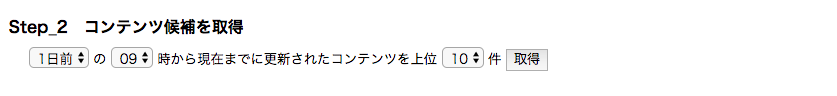
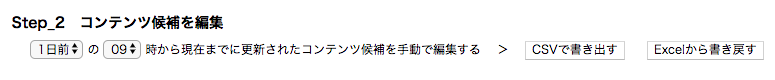
v0.9.9.5

diff --git a/js/main.js b/js/main.js
@@ -263,7 +263,7 @@ function read_data() {
 ***********************************************/
 function read_data_export() {
     //alert('read_data_export()');
-    $("#circle_icon_area").css("display","block");
+    $("#circle_icon_area_2").css("display","block");
 
     $.post(get_set_contents,
     {
@@ -278,9 +278,9 @@ function read_data_export() {
             /////////
             if(data.trim().length === 0) {
                 alert("指定した期間にはコンテンツがありません。");
-                $("#circle_icon_area").css("display","none");
+                $("#circle_icon_area_2").css("display","none");
             } else {
-                $("#circle_icon_area").css("display","none");
+                $("#circle_icon_area_2").css("display","none");
                 var filename = get_issue() + "_article_candidate.csv";
                 var bom = new Uint8Array([0xEF, 0xBB, 0xBF]);
                 var blob = new Blob([ bom, data.trim() ], { "type" : "text/csv" });
@@ -304,7 +304,7 @@ function read_data_export() {
  Excelで編集したコンテンツをサーバにアップロードして書き戻す
 ***********************************************/
 function read_data_import() {
-    $("#circle_icon_area").css("display","block");
+    $("#circle_icon_area_2").css("display","block");
     //$('#import_file').click();
     $('#import_file').change(function(evt) {
         var file = evt.target.files[0];
@@ -323,7 +323,7 @@ function read_data_import() {
                     if(status == 'success') {
                         //alert(data);
                         if (parseInt(data) > 0) {
-                            alert(data + " 行のコンテンツ候補を書き戻しました。いったんリロードします。");
+                            alert(data + " 行のコンテンツ候補を書き戻しました。リロードします");
                             location.reload();
                         } else {
                             alert("コンテンツ候補の書き戻しに失敗しました。リロードします。");
@@ -331,7 +331,7 @@ function read_data_import() {
                         }
                     } else {
                         alert("error.");
-                        $("#circle_icon_area").css("display","none");
+                        $("#circle_icon_area_2").css("display","none");
                     }
                 });
             });
@@ -347,7 +347,7 @@ function read_data_import() {
                     if(status == 'success') {
                         //alert(data);
                         if (parseInt(data) > 0) {
-                            alert(data + " 行のコンテンツ候補を書き戻しました。いったんリロードします。");
+                            alert(data + " 行のコンテンツ候補を書き戻しました。リロードします。");
                             location.reload();
                         } else {
                             alert("コンテンツ候補の書き戻しに失敗しました。リロードします。");
@@ -355,7 +355,7 @@ function read_data_import() {
                         }
                     } else {
                         alert("error.");
-                        $("#circle_icon_area").css("display","none");
+                        $("#circle_icon_area_2").css("display","none");
                     }
                 });
             }, false);

diff --git a/doc/makenews.php b/doc/makenews.php
@@ -39,7 +39,20 @@ if ($_SESSION['auth'] == true) {
 </p>
 <div class="capture_area"><img src="../images/doc/make/step_1.png" width="780px"></div>
 								</div>
-							<li class="docu_h1_nodeco">Step_2　コンテンツ候補を取得
+							<li class="docu_h1_nodeco">Step_2　コンテンツ候補を編集
+								<div>
+<p>
+	Watson NLCによる判定結果を確認し、必要ならば手動で変更するために、コンテンツ候補をダウンロードします。
+	「ニュース取得開始日」「ニュース取得開始時刻」を指定して「CSVで書き出す」ボタンを押すと、コンテンツ候補をCSV形式で保存できます。
+	これをExcelで開き、必要な修正（採用／非採用の書き換え、確信度の修正）を行ったら、<b>必ず「名前をつけて保存」→「Excelブック（*.xlsx）」</b>で
+	保存し、「Excelから書き戻す」ボタンを押してExcelファイルをアップロードしてください。なお、この操作はオプションです。
+</p>
+<p>
+	最後に「取得」ボタンをクリックすると「Step_3」のエリアにニュースが取り込まれます。
+</p>
+<div class="capture_area"><img src="../images/doc/make/step_2.png" width="780px"></div>
+								</div>
+							<li class="docu_h1_nodeco">Step_3　コンテンツ候補を取得
 								<div>
 <p>
 	あらかじめ登録しておいた「ニュース取得開始日」「ニュース取得開始時刻」
@@ -49,9 +62,9 @@ if ($_SESSION['auth'] == true) {
 <p>
 	最後に「取得」ボタンをクリックすると「Step_3」のエリアにニュースが取り込まれます。
 </p>
-<div class="capture_area"><img src="../images/doc/make/step_2.png" width="780px"></div>
+<div class="capture_area"><img src="../images/doc/make/step_3.png" width="780px"></div>
 								</div>
-							<li class="docu_h1_nodeco">Step_3　ニュース本文を作成
+							<li class="docu_h1_nodeco">Step_4　ニュース本文を作成
 								<div>
 <p>
 	「連絡メモ欄（オプション）」に文字を入力すると、タイトル画像直下にお知らせメッセージを表示できます。
@@ -69,24 +82,24 @@ if ($_SESSION['auth'] == true) {
 	次回以降も継続して、そのカテゴリーを利用する場合は、「カテゴリ リスト」に項目を追加して、
 	「<a href="<?php echo '/'. BASE .'/' ?>?page=crawler_conf">クローラ設定</a>」から再度アップロードしてください。
 </p>
-<div class="capture_area"><img src="../images/doc/make/step_3.png" width="780px"></div>
+<div class="capture_area"><img src="../images/doc/make/step_4.png" width="780px"></div>
 								</div>
-							<li class="docu_h1_nodeco"><a name="Step_4">Step_4　ランキングを作成</a>
+							<li class="docu_h1_nodeco"><a name="Step_4">Step_5　ランキングを作成</a>
 								<div>
 <p>
 	発行号を指定して記事のクリック数によるランキングを作成できます。クリックされた記事はすべて表示されます。
 	表示させる記事を絞り込む場合や、表示したくないニュースがある場合には、右の「×」ボタンで削除できます。
 </p>
-<div class="capture_area"><img src="../images/doc/make/step_4.png" width="780px"></div>
+<div class="capture_area"><img src="../images/doc/make/step_5.png" width="780px"></div>
 								</div>
-							<li class="docu_h1_nodeco">Step_5　プレビューを確認
+							<li class="docu_h1_nodeco">Step_6　プレビューを確認
 								<div>
 <p>
 	「プレビュー」ボタンをクリックしてニュースの実物を確認できます。「プレビュー」ボタンの右の「並び順：...」から
 	記事とランキングの上下を入れ替えられます。デフォルトでは、記事の下にランキングが表示されます。
 	プレビューを確認して、修正が必要な場合は、前のステップに戻って修正を加え、再度「プレビュー」をクリックします。
 </p>
-<div class="capture_area"><img src="../images/doc/make/step_5.png" width="780px"></div>
+<div class="capture_area"><img src="../images/doc/make/step_6.png" width="780px"></div>
 <p>
 	トップ画像を設定していない場合、上記のような仮のトップ画像が表示されます。
 	トップ画像、ボトム画像、カテゴリアイコンをオリジナル画像にするには、
@@ -95,7 +108,7 @@ if ($_SESSION['auth'] == true) {
 	それぞれの画像をアップロードします。
 </p>
 								</div>
-							<li class="docu_h1_nodeco">Step_6　コンテンツを利用
+							<li class="docu_h1_nodeco">Step_7　コンテンツを利用
 								<div>
 <p>
 	修正が完了したら、プレビューされている件名と本文をそれぞれコピーして、

diff --git a/doc/quickstart.php b/doc/quickstart.php
@@ -196,28 +196,34 @@ if ($_SESSION['auth'] == true) {
 	<b>Step_1 メール件名を編集</b><br>あらかじめ登録しておいたメール件名が表示されますが、この場で修正もできます。
 </p>
 <p>
-	<b>Step_2　コンテンツ候補を取得</b><br>あらかじめ登録しておいた「ニュース取得開始日」「ニュース取得開始時刻」
+	<b>Step_2　コンテンツ候補を編集</b><br>Watson NLCによる判定結果を確認し、必要ならば手動で変更するために、コンテンツ候補をダウンロードします。
+	「ニュース取得開始日」「ニュース取得開始時刻」を指定して「CSVで書き出す」ボタンを押すと、コンテンツ候補をCSV形式で保存できます。
+	これをExcelで開き、必要な修正（採用／非採用の書き換え、確信度の修正）を行ったら、<b>必ず「名前をつけて保存」→「Excelブック（*.xlsx）」</b>で
+	保存し、「Excelから書き戻す」ボタンを押してExcelファイルをアップロードしてください。なお、この操作はオプションです。
+</p>
+<p>
+	<b>Step_3　コンテンツ候補を取得</b><br>あらかじめ登録しておいた「ニュース取得開始日」「ニュース取得開始時刻」
 	「ニュース取得数」が表示されますが、この場で修正もできます。例えば、月曜日であれば「ニュース取得開始日」を「3日前」として
 	先週金曜日以降のニュースを取得できます。最後に「取得」ボタンをクリックすると「Step_3」のエリアにニュースが取り込まれます。
 </p>
 <p>
-	<b>Step_3　ニュース本文を作成</b><br>「連絡メモ欄（オプション）」に文字を入力すると、タイトル画像直下にお知らせメッセージを
+	<b>Step_4　ニュース本文を作成</b><br>「連絡メモ欄（オプション）」に文字を入力すると、タイトル画像直下にお知らせメッセージを
 	表示できます。その下には、カテゴリごとにニュースのURLとタイトル、メディア名がセットされます。
 	各囲み内の「注目記事！」「削除」「要ログイン」「参考リンク追加」などを使って、適宜修正ください。
 	囲み枠はドラッグ＆ドロップで順序を入れ替えられます。
 	また、手動でカテゴリーや記事を追加したい場合は「カテゴリーを追加」「記事を追加」ボタンを使用できます。
 </p>
 <p>
-	<b>Step_4　ランキングを作成</b><br>発行号を指定して記事のクリック数によるランキングを作成できます。なお、
+	<b>Step_5　ランキングを作成</b><br>発行号を指定して記事のクリック数によるランキングを作成できます。なお、
 	ランキングに含めたくないニュースが表示されている場合、右の「×」ボタンで削除できます。この場合、ランク外だった記事が
 	繰り上がってランクインします。
 </p>
 <p>
-	<b>Step_5　プレビューを確認</b><br>「プレビュー」ボタンをクリックしてニュースの実物を確認できます。修正が必要な場合は、
+	<b>Step_6　プレビューを確認</b><br>「プレビュー」ボタンをクリックしてニュースの実物を確認できます。修正が必要な場合は、
 	前のステップに戻って修正を加え、再度「プレビュー」をクリックします。
 </p>
 <p>
-	<b>Step_6　コンテンツを利用</b><br>修正が完了したら、プレビューされている件名と本文をそれぞれコピーして、
+	<b>Step_7　コンテンツを利用</b><br>修正が完了したら、プレビューされている件名と本文をそれぞれコピーして、
 	メーラーやポータルサイトに貼り付けてご利用ください。
 </p>
 								</div>

diff --git a/news_maker.php b/news_maker.php
@@ -32,7 +32,7 @@ if (! isset($_SESSION['auth'])) {
 		        </div>
 
 				<div class="operation">
-					<h2>Step_2　コンテンツ候補を取得</h2>
+					<h2>Step_2　コンテンツ候補を編集</h2>
 					<div class="readbutton_area">
 						<select class="period_day" id="period_day_pre"></select> の
 		            	<select class="period_hour" id="period_hour_pre"></select> 時から現在までに更新されたコンテンツ候補を手動で編集する <a id="targetLink" style="display: none;">.</a>　＞　
@@ -40,7 +40,13 @@ if (! isset($_SESSION['auth'])) {
 						<button class="read_data_btn" id="default_im" onclick="read_data_import()">Excelから書き戻す</button>
 						<input type="file" id="import_file" style="display:none;">
 					</div>
-					<br>
+					<div class="circle_icon_area" id="circle_icon_area_2">
+		                <img src="images/circle_icon.gif" class="circle_icon">
+		            </div>
+				</div>
+
+				<div class="operation">
+					<h2>Step_3　コンテンツ候補を取得</h2>
 		            <div class="readbutton_area">
 		            	<select class="period_day" id="period_day"></select> の
 		            	<select class="period_hour" id="period_hour"></select> 時から現在までに更新されたコンテンツを上位
@@ -53,7 +59,7 @@ if (! isset($_SESSION['auth'])) {
 				</div>
 
 				<div class="operation">
-					<h2>Step_3　ニュース本文を作成</h2>
+					<h2>Step_4　ニュース本文を作成</h2>
 		            <ul class="memo_box">
 		              <li>
 		                <div>
@@ -154,7 +160,7 @@ if (! isset($_SESSION['auth'])) {
 				</div>
 		        
 				<div class="operation">
-					<h2>Step_4　ランキングを作成</h2>
+					<h2>Step_5　ランキングを作成</h2>
 					<div id="Step_2" class="edit_area">
 						<div class="operation">▼発行号を指定する▼</div>
 						<select id="target_issue" style="margin-right:20px;">
@@ -165,7 +171,7 @@ if (! isset($_SESSION['auth'])) {
 				</div>
 		        
 				<div class="operation">
-					<h2>Step_5　プレビューを確認</h2>
+					<h2>Step_6　プレビューを確認</h2>
 					<div id="Step_3" class="edit_area">
 						<div>
 							<button onclick="preview()">プレビュー</button>
@@ -182,7 +188,7 @@ if (! isset($_SESSION['auth'])) {
 				</div>
 
 				<div class="operation">
-					<h2>Step_6　コンテンツを利用</h2>
+					<h2>Step_7　コンテンツを利用</h2>
 					<div id="Step_X" class="edit_area">
 						<p>件名および本文をそれぞれコピーして、お使いのメーラーなどにペーストしてご利用ください。<br>お疲れさまでした。</p>
 					</div>

diff --git a/get_set_contents.php b/get_set_contents.php
@@ -51,10 +51,11 @@ if ($_POST["period_day"] && $_POST["period_hour"] && $_POST["news_id"]) {
         $cnt = 0;
         foreach ($list as $key => $value) {
             $items = csvSplit($value);
+            $created = datetimeFormatter($items[3]);
             if (count($items) == 7) {
-                $stmt->bind_param("sssssdss", $items[0], $items[1], $items[2], $items[3], $items[4], $items[5], $items[6], $items[2]);
+                $stmt->bind_param("sssssdss", $items[0], $items[1], $items[2], $created, $items[4], $items[5], $items[6], $items[2]);
                 $stmt->execute();
-                if ($stmt->errno == 0) { $cnt += 1; } 
+                if ($stmt->errno == 0) { $cnt += 1; }
             }
         }
         if ($cnt > 0) {

diff --git a/index.php b/index.php
@@ -557,6 +557,7 @@ if ($_SESSION['auth'] != true) {
 								<ol>
 									<li>ニュースを選ぶ</li>
 									<li>メール件名を編集</li>
+									<li>コンテンツ候補を編集</li>
 									<li>コンテンツ候補を取得</li>
 									<li>ニュース本文を作成</li>
 									<li>ランキングを作成</li>

diff --git a/functions.php b/functions.php
@@ -891,4 +891,9 @@ function csvSplit($str) {
 	$result[] = implode($buf);
 	return $result;
 }
+
+function datetimeFormatter($str) {
+	$date = new DateTime($str);
+	return $date->format('Y-m-d H:m:s');
+}
 ?>
